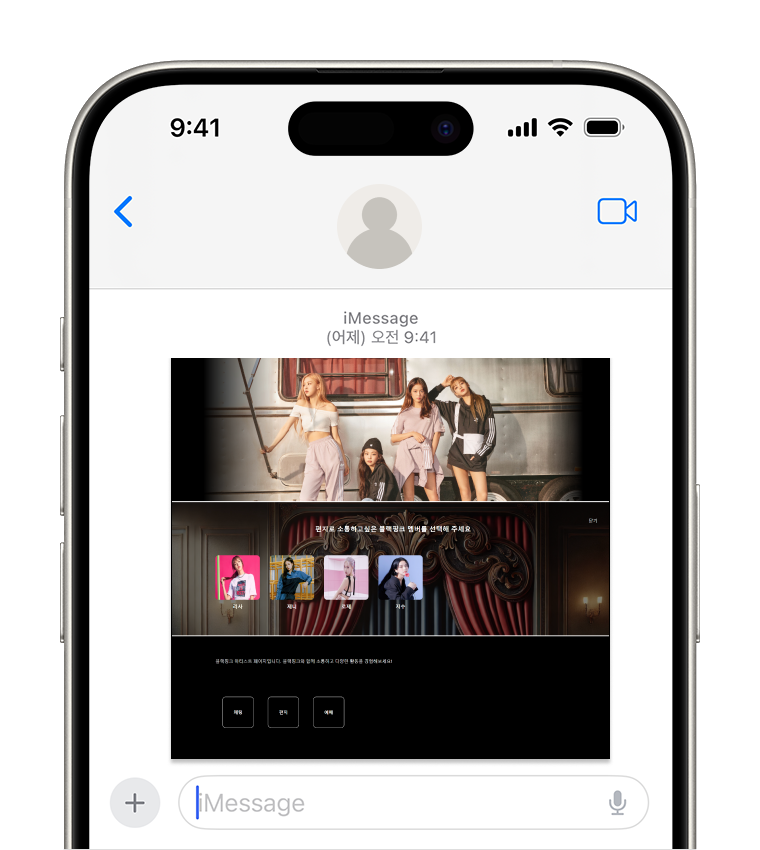
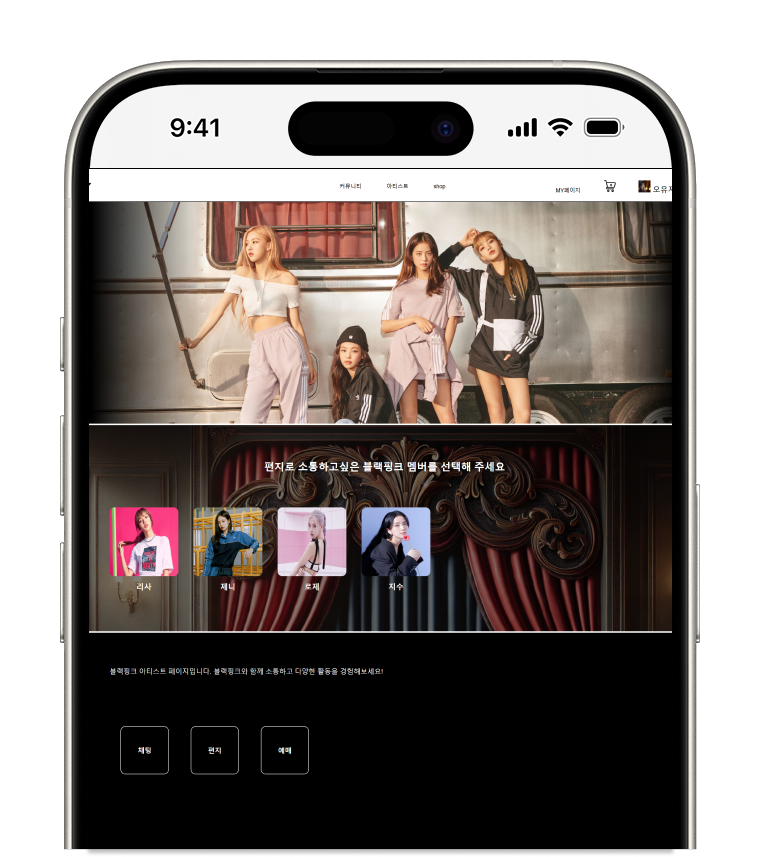
메인 완성

diff --git a/Deeply/src/main/resources/static/assets/css/ms.css b/Deeply/src/main/resources/static/assets/css/ms.css
@@ -495,7 +495,7 @@ font-size:16px;
 	font-size: clamp(20px, 1.2vw, 40px);
 }
 .c-content1{
-	padding:0 7%; 
+	padding:0 2.5%; 
 }
 .c-content2{
 	padding:0 4%; 
@@ -509,7 +509,7 @@ font-size:16px;
 	height:auto;
 }
 .shop-1{
-	font-size: clamp(60px, 1.2vw, 80px);
+	font-size: clamp(60px, 1.2vw, 70px);
 	color:white;
 	padding:3% 0 0 15%;
 }
@@ -517,6 +517,10 @@ font-size:16px;
 	font-size: clamp(40px, 1.2vw, 60px);
 	color:#0369A1;
 	padding:0 0 0 15%;
+}
+.shop-3{
+	font-size: clamp(60px, 1.2vw, 70px);
+	padding:3% 0 0 15%;
 }
 .main-items{
 	display:flex;
@@ -551,7 +555,7 @@ font-size:16px;
 .item-cards{
 	object-fit: cover;
     width: 15%; 
-    height: 22vw;
+    height: 21vw;
     padding: 0.5rem; 
     margin: 0.5%;
     background-color: #fff;
@@ -576,7 +580,7 @@ font-size:16px;
 }
 .list-text{
 	font-size: clamp(12px, 1vw, 18px);
-	 line-height: 1.1; /* 줄 간격 설정 */
+	 line-height: 1.1; 
 }
 
 .list-price{
@@ -589,21 +593,54 @@ font-size:16px;
 	font-size: clamp(18px, 1vw, 24px);
 	color:white;
 	text-decoration: none;
+	padding: 0 0 0 78%;
 }
 .artist{
-	margin-top:20px;
-	width:900px;
-	height:1100px;
-	margin:0 auto;
+	padding:2rem 10rem 8rem 15rem; 
+	height:auto;
+	display:flex;
+    flex-wrap: wrap; 
+    gap: 20px; 
+    justify-content: flex-start;
+	
+}
+.alist-img{
+  	object-fit: cover;
+  	aspect-ratio: 1 / 1;
+  	border-radius: 0.5vw;
+  	width: 100%; 
+    height: 18vw;
+   
+}
+.item-cards2{
+	width: 15%; 
+    height: 21vw;
+	object-fit: cover;
+    flex: 0 0 calc(25% - 2rem);
+    box-sizing: border-box;
+    background-color: #fff;
+    border-radius: 1vw; 
+    box-shadow: 0 1vw 1.5vw rgba(0, 0, 0, 0.1);
+}
+span.artist-text{
+	all: unset; 
+    text-decoration: none !important;
+	font-size: clamp(12px, 1vw, 18px);
+	color: #0369A1;
+	display:flex;
+	align-items:center;
+	margin-top:0.5rem;
+	justify-content:center;
+}
 
-}
- .item-card{
- margin-right:70px;}
-.artist .item-card:nth-child(4n) {
-    margin-right: 0px; /* 4번째 요소의 마진을 없앰 */
-}
-.img{
-	float:left;
+@font-face {
+    font-family: 'Pretendard-Regular';
+    src: url('https://fastly.jsdelivr.net/gh/Project-Noonnu/noonfonts_2107@1.1/Pretendard-Regular.woff') format('woff');
+    font-weight: 400;
+    font-style: normal;
 }
 
+body {
+    font-family: 'Pretendard-Regular', sans-serif;
+}
 /*메인 끝*/

diff --git a/Deeply/src/main/resources/static/assets/css/common.css b/Deeply/src/main/resources/static/assets/css/common.css
@@ -1,4 +1,17 @@
 @charset "UTF-8";
+/* 공통 글씨체
+--------------------------------*/
+
+@font-face {
+    font-family: 'Pretendard-Regular';
+    src: url('https://fastly.jsdelivr.net/gh/Project-Noonnu/noonfonts_2107@1.1/Pretendard-Regular.woff') format('woff');
+    font-weight: 400;
+    font-style: normal;
+}
+
+body {
+    font-family: 'Pretendard-Regular', sans-serif;
+}
 /* 전체 레이아웃
 ----------------------------*/
 body{
@@ -107,8 +120,6 @@ header a{
 /* 공통 테이블
 --------------------------------*/
 
-/* 공통 버튼
---------------------------------*/
 
 
 
